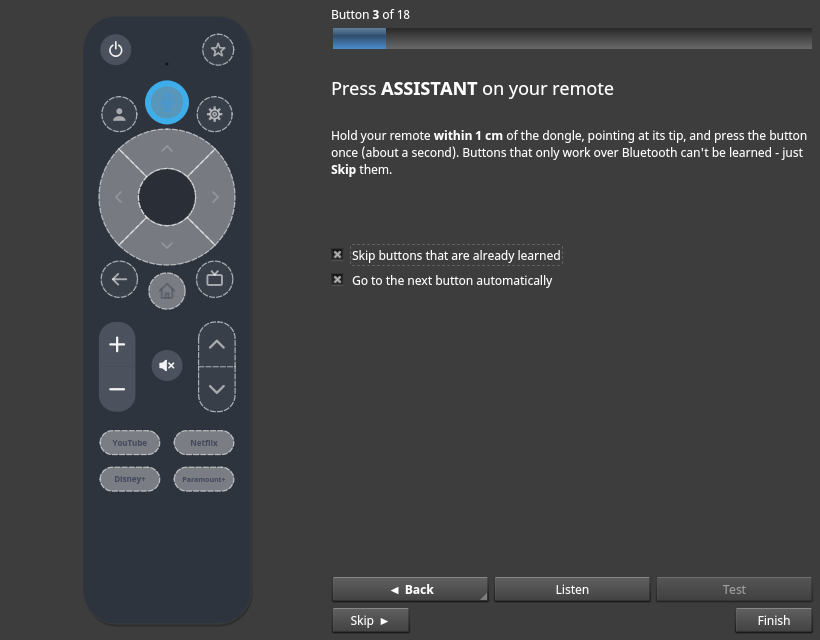
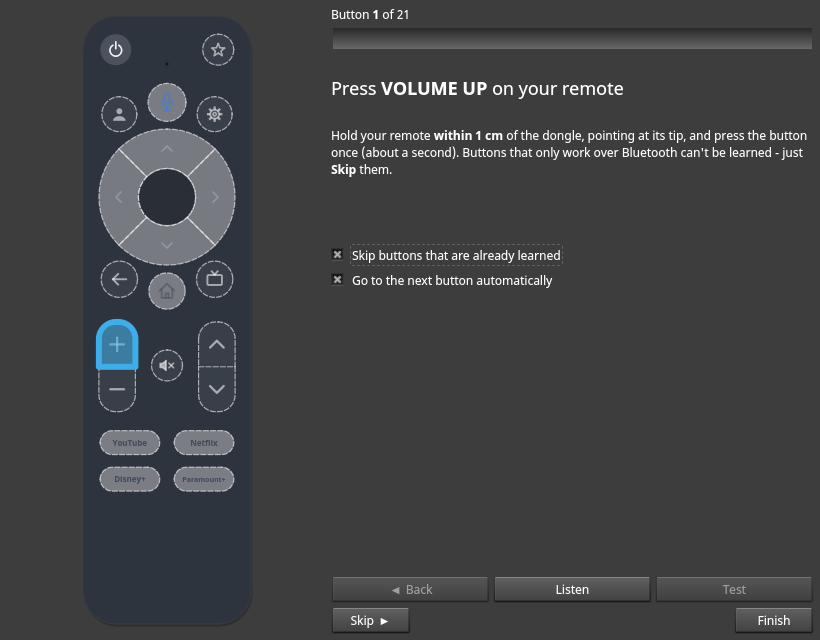
Picture view: don't re-read photos on every refresh; Learn-all screenshot at Volume Up

diff --git a/tools/make_screenshots.py b/tools/make_screenshots.py
@@ -35,7 +35,7 @@ def demo_data() -> dict:
          "buttons": learned("Power", "Volume Up", "Volume Down", "Mute", "Input", "Up", "Down",
                             "Left", "Right", "OK", "Back", "Home", "Netflix")},
         {"name": "Android TV box", "layout": "onn-4k-pro-google-tv",
-         "buttons": learned("Power", "Volume Up", "Volume Down", "Mute")},
+         "buttons": learned("Power")},
     ]}
 
 
@@ -57,7 +57,7 @@ def main() -> int:
         app.processEvents()
         w.grab().save(os.path.join(out, name))
         print(os.path.join(out, name))
-    # The Learn-all wizard, waiting at its first step (nothing is sent).
+    # The Learn-all wizard at its first step, Volume Up (nothing is sent).
     w.remote_list.setCurrentRow(1)
     app.processEvents()
     from irremote import layouts, visual
@@ -67,7 +67,7 @@ def main() -> int:
     dlg.resize(820, 640)
     dlg.show()
     app.processEvents()
-    dlg._show(2)
+    dlg._show(0)
     dlg.canvas._pulse = 1.5
     app.processEvents()
     path = os.path.join(out, "learn-all.png")

diff --git a/irremote/gui.py b/irremote/gui.py
@@ -704,9 +704,10 @@ class MainWindow(QMainWindow):
             self.tip.setText("Click a button to send it. Dim, dashed buttons aren't learned yet "
                              "- click one to learn it, or use <b>Learn all</b>. "
                              "Right-click for learn again, shortcut and clear.")
-            if self.canvas.layout_ is not lay and (self.canvas.layout_ or {}).get("id") != lay.get("id") \
-                    or self.canvas.remote is not r or lay.get("image"):
-                self.canvas.set_layout(lay, r)
+            key = (id(r), lay.get("id"), lay.get("image"), len(lay["buttons"]))
+            if self.canvas.layout_ is None or key != getattr(self, "_canvas_key", None):
+                self._canvas_key = key
+                self.canvas.set_layout(lay, r)      # (re)reads a photo only when it changes
             else:
                 self.canvas.set_remote(r)
             self._fill_extras(r, lay)
